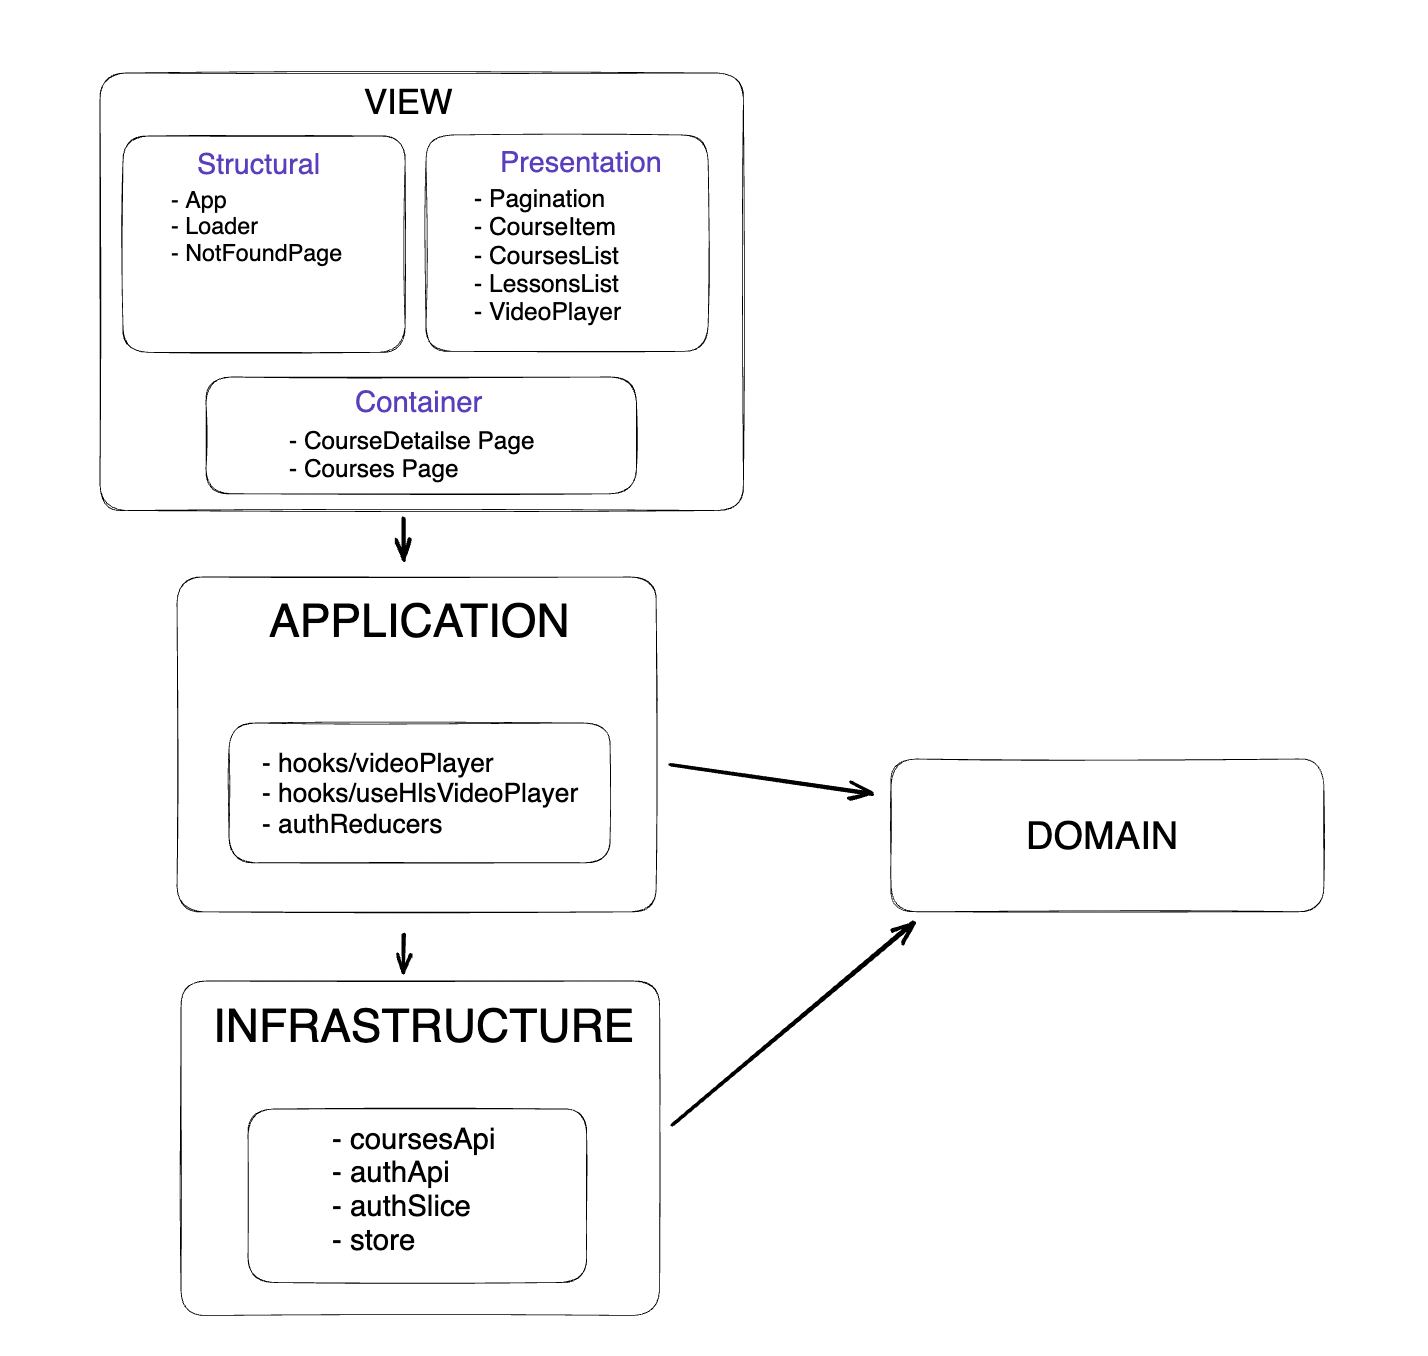
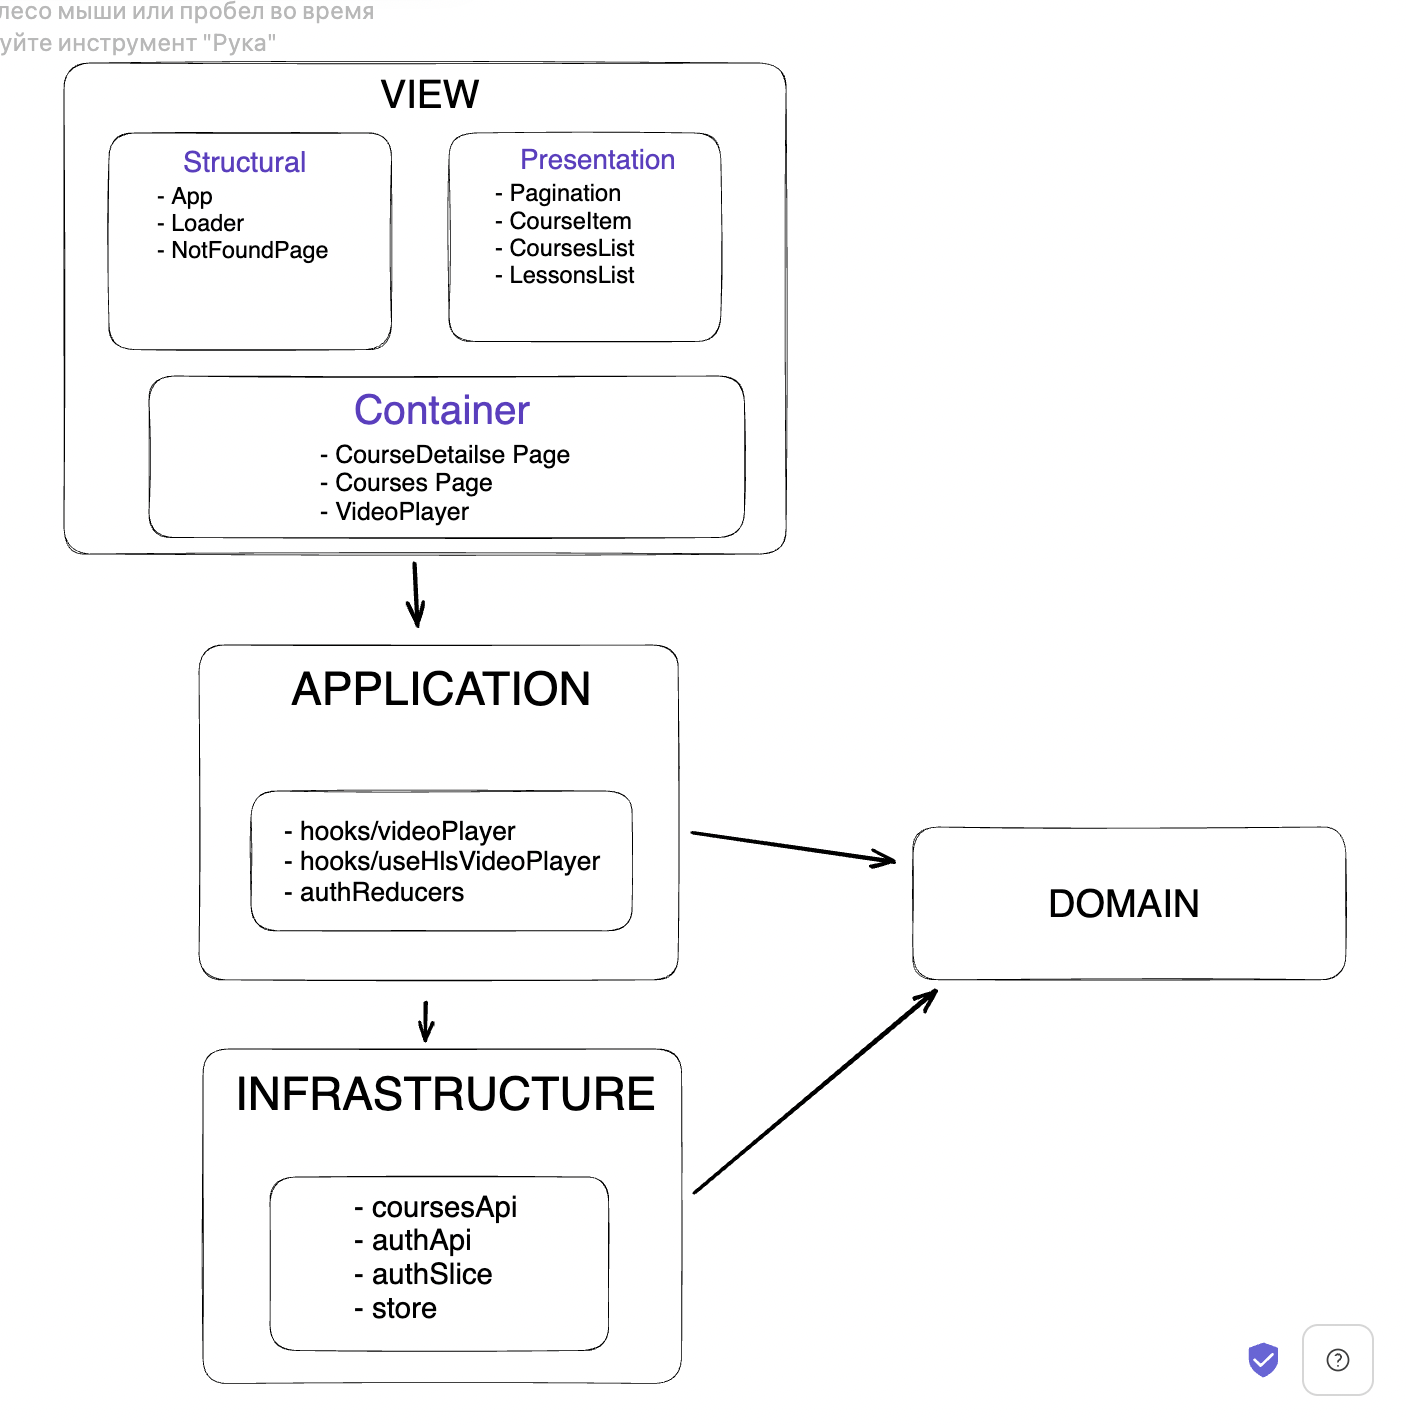
description

diff --git a/HW-5.md b/HW-5.md
@@ -1,4 +1,26 @@
-## Layer schema
+### In my project, the files are divided into the following layers:
 
-  <img src="./public/hw-5.png" title="Layer schema" alt="Layer schema" width="100"/>
+- View,
+- Infrastructure
+- Application.
+
+#### View components are divided into:
+
+- presentation, they accept data and return events, do not have access to the store and do not call APIs (Pagination, CourseItem, CoursesList, LessonsList).
+- structural are responsible for the structure, do not receive anything and do not know about Api and store (App, Loader, NotFoundPage).
+- container communicates with Application, Api and store.
+
+#### The Application layer
+
+Knows about Infrastructure, these are custom hooks (videoPlayer, useHlsVideoPlayer, authReducers).
+
+#### The Infrastructure layer.
+
+Is responsible for requests to the server and saving data, it is redax, api and store.
+
+### Layers schema
+
+<img src="./public/hw-5.png" title="Layer schema" alt="Layer schema" width="100"
+  />
+
   <!-- width="100"  height="100" -->
